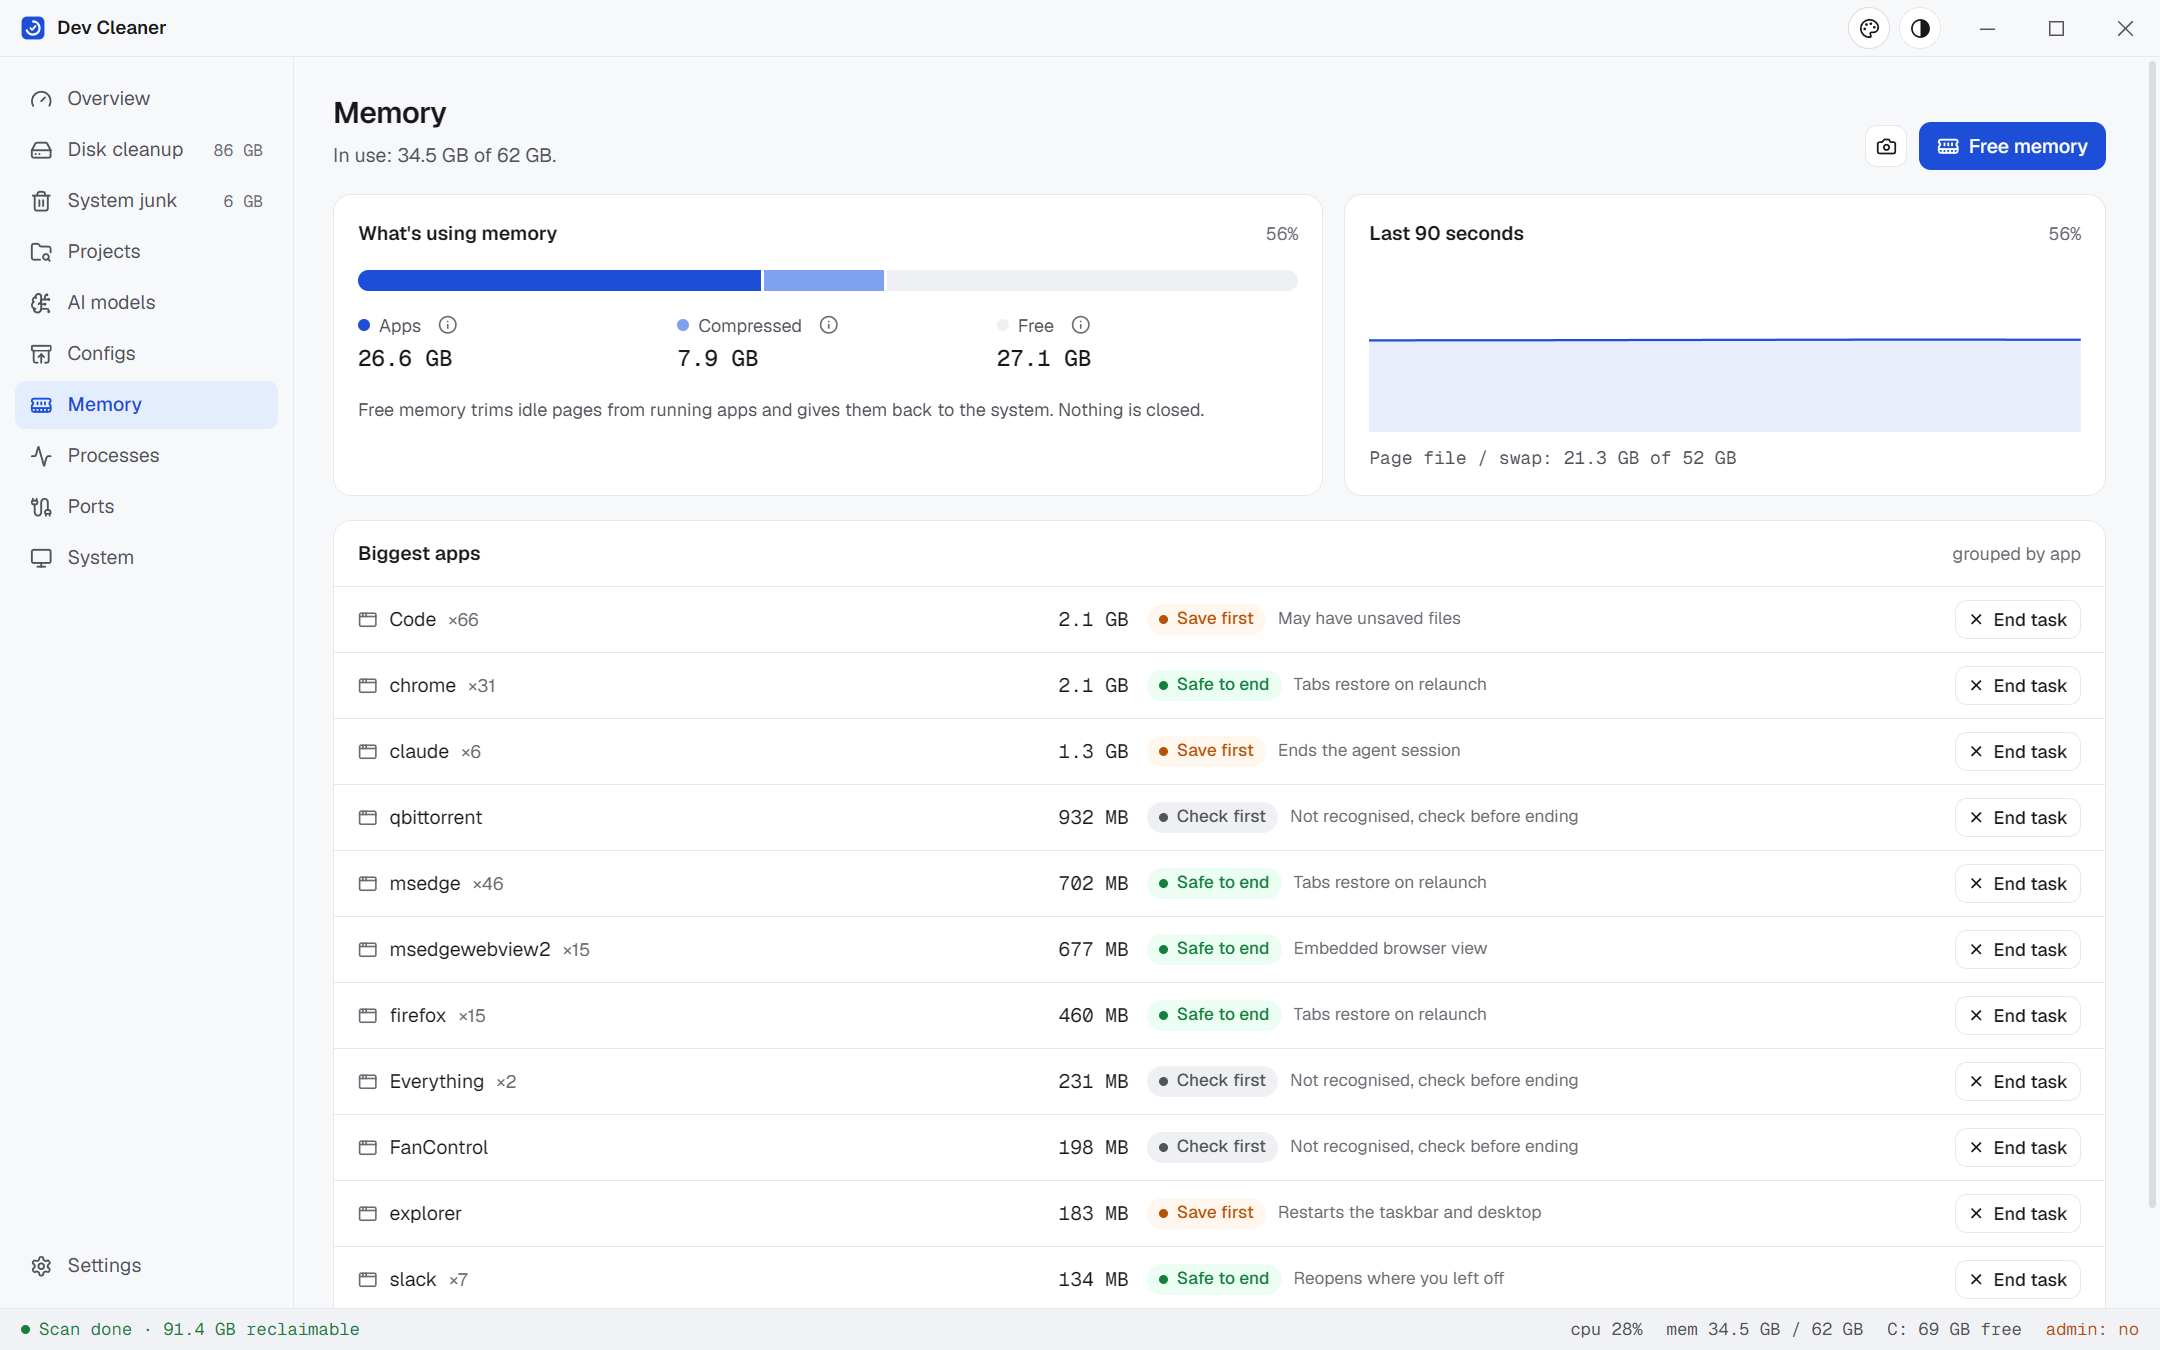
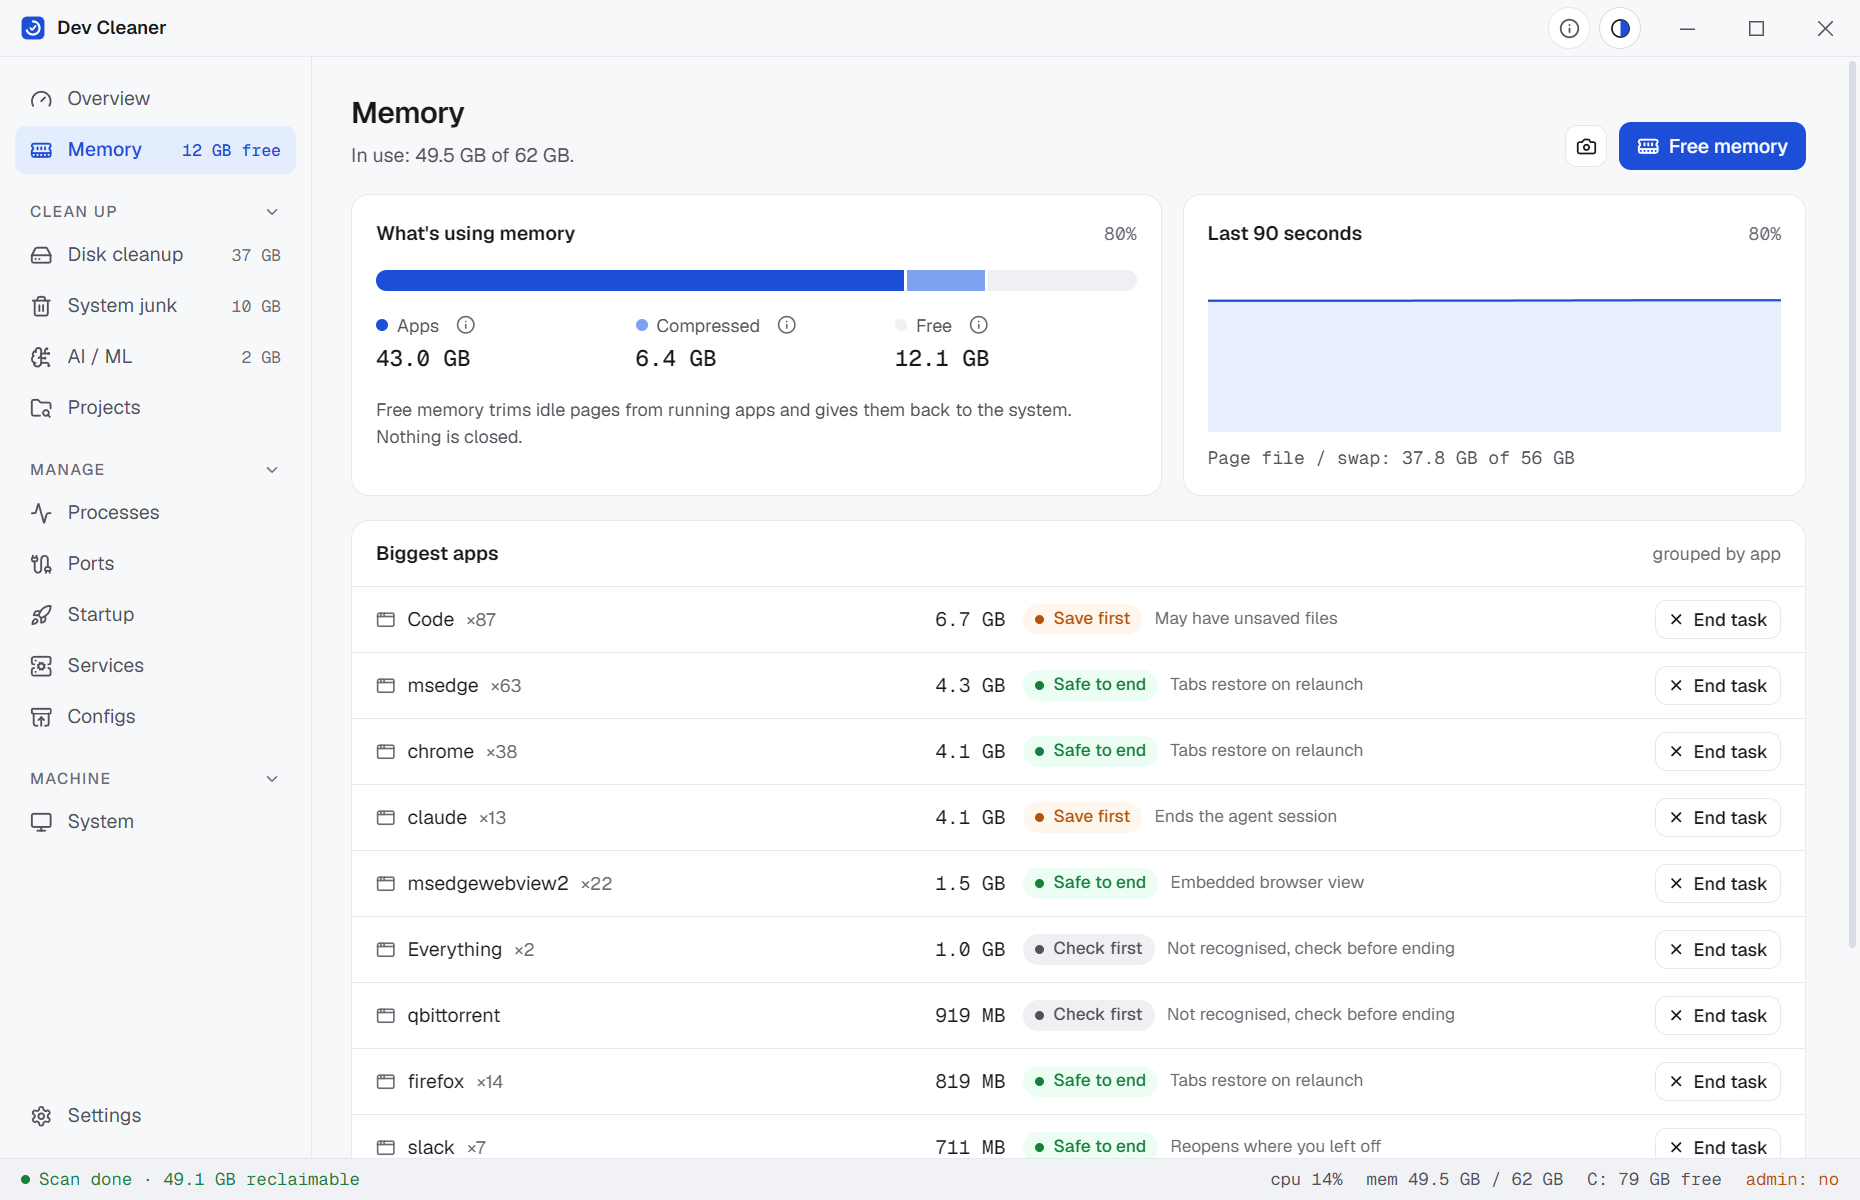
Grouped sidebar, free RAM in the nav, clickable Overview gauges
- Sidebar: Overview and Memory on top, then collapsible Clean up,
  Manage and Machine sections. Folding is remembered and a folded
  section opens when a page inside it is shown. Width 196 -> 208px.
- Memory's badge shows free RAM ("12 GB free"); the ports count badge
  is gone (the status bar still lists ports).
- ORDER moves to Shell.tsx so Ctrl/Cmd + 1..9 follows the sidebar.
- Overview CPU, Memory and Disk cards open Processes, Memory and Disk
  cleanup (mouse and keyboard).
- e2e: folding, Memory position and badge, no clipped labels, gauge
  links. README screenshots retaken.

diff --git a/src/components/Shell.tsx b/src/components/Shell.tsx
@@ -1,40 +1,91 @@
 import { motion } from "motion/react"
-import { Activity, ArchiveRestore, BrainCircuit, Trash2, Cable, FolderSearch, Gauge as GaugeIcon, HardDrive, MemoryStick, Monitor, Rocket, ServerCog, Settings } from "lucide-react"
+import { Activity, ArchiveRestore, BrainCircuit, ChevronDown, Trash2, Cable, FolderSearch, Gauge as GaugeIcon, HardDrive, MemoryStick, Monitor, Rocket, ServerCog, Settings } from "lucide-react"
 import { bytes, cn } from "@/lib/format"
 import { sectionOf } from "@/lib/sections"
 import { useStore } from "@/lib/store"
 import { PrivilegeStatus } from "./Privileges"
-import type { ReactNode } from "react"
+import { useEffect, useState, type ReactNode } from "react"
 
 export type Page = "overview" | "disk" | "junk" | "projects" | "models" | "configs" | "memory" | "processes" | "startup" | "services" | "ports" | "system" | "settings"
 
-const NAV: { id: Page; label: string; icon: ReactNode }[] = [
-  { id: "overview", label: "Overview", icon: <GaugeIcon size={15} /> },
-  { id: "disk", label: "Disk cleanup", icon: <HardDrive size={15} /> },
-  { id: "junk", label: "System junk", icon: <Trash2 size={15} /> },
-  { id: "projects", label: "Projects", icon: <FolderSearch size={15} /> },
-  { id: "models", label: "AI / ML", icon: <BrainCircuit size={15} /> },
-  { id: "configs", label: "Configs", icon: <ArchiveRestore size={15} /> },
-  { id: "memory", label: "Memory", icon: <MemoryStick size={15} /> },
-  { id: "processes", label: "Processes", icon: <Activity size={15} /> },
-  { id: "startup", label: "Startup", icon: <Rocket size={15} /> },
-  { id: "services", label: "Services", icon: <ServerCog size={15} /> },
-  { id: "ports", label: "Ports", icon: <Cable size={15} /> },
-  { id: "system", label: "System", icon: <Monitor size={15} /> },
+type NavItem = { id: Page; label: string; icon: ReactNode }
+const item = (id: Page, label: string, icon: ReactNode): NavItem => ({ id, label, icon })
+
+const TOP: NavItem[] = [item("overview", "Overview", <GaugeIcon size={15} />), item("memory", "Memory", <MemoryStick size={15} />)]
+const GROUPS: { id: string; label: string; items: NavItem[] }[] = [
+  {
+    id: "clean",
+    label: "Clean up",
+    items: [
+      item("disk", "Disk cleanup", <HardDrive size={15} />),
+      item("junk", "System junk", <Trash2 size={15} />),
+      item("models", "AI / ML", <BrainCircuit size={15} />),
+      item("projects", "Projects", <FolderSearch size={15} />),
+    ],
+  },
+  {
+    id: "manage",
+    label: "Manage",
+    items: [
+      item("processes", "Processes", <Activity size={15} />),
+      item("ports", "Ports", <Cable size={15} />),
+      item("startup", "Startup", <Rocket size={15} />),
+      item("services", "Services", <ServerCog size={15} />),
+      item("configs", "Configs", <ArchiveRestore size={15} />),
+    ],
+  },
+  { id: "machine", label: "Machine", items: [item("system", "System", <Monitor size={15} />)] },
 ]
 
+/** Sidebar order, top to bottom. Ctrl/Cmd + 1..9 follows it. */
+export const ORDER: Page[] = [...TOP, ...GROUPS.flatMap((g) => g.items)].map((n) => n.id).concat("settings")
+
+const FOLD_KEY = "dc-nav-folded"
+function useFolded() {
+  const [folded, setFolded] = useState<Set<string>>(() => {
+    try {
+      const v = JSON.parse(localStorage.getItem(FOLD_KEY) ?? "[]")
+      return new Set(Array.isArray(v) ? v : [])
+    } catch {
+      return new Set()
+    }
+  })
+  const set = (id: string, fold: boolean) =>
+    setFolded((prev) => {
+      if (prev.has(id) === fold) return prev
+      const next = new Set(prev)
+      if (fold) next.add(id)
+      else next.delete(id)
+      try {
+        localStorage.setItem(FOLD_KEY, JSON.stringify([...next]))
+      } catch {
+        /* folding just won't be remembered */
+      }
+      return next
+    })
+  return [folded, set] as const
+}
+
 export function Sidebar({ page, go }: { page: Page; go: (p: Page) => void }) {
-  const { caches, scanning, portsInUse } = useStore()
+  const { caches, scanning, stats } = useStore()
+  const [folded, setFold] = useFolded()
+  // Opening a page inside a folded section (shortcut, link, insight) unfolds it.
+  useEffect(() => {
+    const g = GROUPS.find((g) => g.items.some((n) => n.id === page))
+    if (g && folded.has(g.id)) setFold(g.id, false)
+    // eslint-disable-next-line react-hooks/exhaustive-deps
+  }, [page])
+
   const reclaim = caches.filter((c) => sectionOf(c) === "disk").reduce((n, c) => n + c.size, 0)
   const aiBytes = caches.filter((c) => (sectionOf(c) === "harnesses" || sectionOf(c) === "mltools") && c.risk !== "data").reduce((n, c) => n + c.size, 0)
   const junkBytes = caches.filter((c) => c.junk && c.risk !== "data").reduce((n, c) => n + c.size, 0)
   const badge: Partial<Record<Page, ReactNode>> = {
+    memory: stats ? <span title={`${bytes(stats.memAvailable)} of ${bytes(stats.memTotal, 0)} RAM free`}>{bytes(stats.memAvailable, 0)} free</span> : null,
     disk: scanning && !reclaim ? <span className="pulse-dot">…</span> : reclaim ? bytes(reclaim, 0) : null,
-    ports: portsInUse.length ? `${portsInUse.length} open` : null,
     junk: junkBytes ? bytes(junkBytes, 0) : null,
     models: aiBytes ? bytes(aiBytes, 0) : null,
   }
-  const item = (n: (typeof NAV)[number]) => {
+  const row = (n: NavItem) => {
     const on = n.id === page
     return (
       <button
@@ -44,7 +95,7 @@ export function Sidebar({ page, go }: { page: Page; go: (p: Page) => void }) {
         aria-current={on ? "page" : undefined}
         onClick={() => go(n.id)}
         className={cn(
-          "relative flex h-8 w-full items-center gap-2.5 rounded-[7px] px-2.5 text-left text-[13px] transition-colors duration-150",
+          "relative flex h-8 w-full shrink-0 items-center gap-2.5 rounded-[7px] px-2.5 text-left text-[13px] transition-colors duration-150",
           on ? "font-medium text-accent" : "text-muted hover:bg-hover hover:text-text",
         )}
       >
@@ -56,16 +107,33 @@ export function Sidebar({ page, go }: { page: Page; go: (p: Page) => void }) {
           />
         )}
         <span className="relative">{n.icon}</span>
-        <span className="relative flex-1">{n.label}</span>
-        {badge[n.id] && <span className={cn("mono relative text-[11px]", on ? "text-accent" : "text-subtle")}>{badge[n.id]}</span>}
+        <span className="relative min-w-0 flex-1 truncate">{n.label}</span>
+        {badge[n.id] && <span className={cn("mono relative shrink-0 text-[11px]", on ? "text-accent" : "text-subtle")}>{badge[n.id]}</span>}
       </button>
     )
   }
   return (
-    <nav aria-label="Sections" className="flex w-[196px] shrink-0 flex-col gap-0.5 border-r border-border px-2.5 py-3">
-      {NAV.map(item)}
+    <nav aria-label="Sections" className="flex w-[208px] shrink-0 flex-col gap-0.5 overflow-y-auto border-r border-border px-2.5 py-3">
+      {TOP.map(row)}
+      {GROUPS.map((g) => {
+        const open = !folded.has(g.id)
+        return (
+          <div key={g.id} className="mt-3 flex flex-col gap-0.5" data-testid={`nav-group-${g.id}`}>
+            <button
+              type="button"
+              aria-expanded={open}
+              onClick={() => setFold(g.id, open)}
+              className="flex h-[22px] w-full items-center gap-1.5 rounded-[5px] px-2.5 text-left text-[10.5px] font-medium tracking-[0.09em] text-subtle uppercase transition-colors duration-150 hover:text-muted"
+            >
+              {g.label}
+              <ChevronDown size={12} className={cn("ml-auto transition-transform duration-200", !open && "-rotate-90")} />
+            </button>
+            {open && g.items.map(row)}
+          </div>
+        )
+      })}
       <div className="flex-1" />
-      {item({ id: "settings", label: "Settings", icon: <Settings size={15} /> })}
+      {row({ id: "settings", label: "Settings", icon: <Settings size={15} /> })}
     </nav>
   )
 }

diff --git a/src/pages/Overview.tsx b/src/pages/Overview.tsx
@@ -60,8 +60,9 @@ export function Overview({ go }: { go: (p: Page) => void }) {
       />
 
       <div className="grid grid-cols-3 gap-3.5">
-        <GaugeCard label="CPU" value={(stats?.cpu ?? 0) / 100} detail={stats ? `${stats.cores.length} threads` : null} note={stats ? ((stats.cpu ?? 0) > 80 ? "Busy" : "Normal load") : null} warn={(stats?.cpu ?? 0) > 80} />
+        <GaugeCard onClick={() => go("processes")} label="CPU" value={(stats?.cpu ?? 0) / 100} detail={stats ? `${stats.cores.length} threads` : null} note={stats ? ((stats.cpu ?? 0) > 80 ? "Busy" : "Normal load") : null} warn={(stats?.cpu ?? 0) > 80} />
         <GaugeCard
+          onClick={() => go("memory")}
           label="Memory"
           value={memUsed}
           detail={stats ? `${bytes(stats.memUsed)} of ${bytes(stats.memTotal, 0)}` : null}
@@ -69,6 +70,7 @@ export function Overview({ go }: { go: (p: Page) => void }) {
           warn={memUsed > 0.85}
         />
         <GaugeCard
+          onClick={() => go("disk")}
           label={disk ? `Disk ${disk.mount}` : "Disk"}
           value={diskUsed}
           detail={disk ? `${bytes(disk.total - disk.free, 0)} of ${bytes(disk.total, 0)}` : null}
@@ -134,9 +136,22 @@ export function Overview({ go }: { go: (p: Page) => void }) {
   )
 }
 
-function GaugeCard({ label, value, detail, note, warn }: { label: string; value: number; detail: string | null; note: string | null; warn?: boolean }) {
+function GaugeCard({ label, value, detail, note, warn, onClick }: { label: string; value: number; detail: string | null; note: string | null; warn?: boolean; onClick: () => void }) {
   return (
-    <Card className="flex items-center gap-4 px-4 py-3.5" data-testid={`gauge-${label.split(" ")[0].toLowerCase()}`}>
+    <Card
+      role="link"
+      tabIndex={0}
+      aria-label={`Open ${label}`}
+      onClick={onClick}
+      onKeyDown={(e) => {
+        if (e.key === "Enter" || e.key === " ") {
+          e.preventDefault()
+          onClick()
+        }
+      }}
+      className="flex cursor-pointer items-center gap-4 px-4 py-3.5 transition-colors duration-150 hover:border-accent/40 hover:bg-hover focus-visible:outline-2 focus-visible:outline-accent"
+      data-testid={`gauge-${label.split(" ")[0].toLowerCase()}`}
+    >
       <Gauge value={value} warn={warn}>
         <span className="mono text-[17px] font-medium">{detail == null ? "—" : `${Math.round(value * 100)}%`}</span>
       </Gauge>

diff --git a/src/App.tsx b/src/App.tsx
@@ -1,7 +1,7 @@
 import { useEffect, useState } from "react"
 import { AnimatePresence, MotionConfig, motion } from "motion/react"
 import { TitleBar } from "./components/TitleBar"
-import { Sidebar, StatusBar, type Page } from "./components/Shell"
+import { ORDER, Sidebar, StatusBar, type Page } from "./components/Shell"
 import { Toaster } from "./components/ui"
 import { ShareReportDialog } from "./components/Share"
 import { useSettings } from "./lib/settings"
@@ -20,8 +20,6 @@ import { Startup } from "./pages/Startup"
 import { Services } from "./pages/Services"
 import { SystemPage } from "./pages/System"
 import { SettingsPage } from "./pages/Settings"
-
-const ORDER: Page[] = ["overview", "disk", "junk", "projects", "models", "configs", "memory", "processes", "startup", "services", "ports", "system", "settings"]
 
 export function App() {
   const { settings } = useSettings()

diff --git a/CHANGELOG.md b/CHANGELOG.md
@@ -8,8 +8,14 @@ section matching the tag.
 ## [Unreleased]
 
 ### Added
+- The Overview's CPU, Memory and Disk cards open Processes, Memory and Disk cleanup.
+- Memory shows how much RAM is free right in the sidebar.
 - Microsoft Store package: every release also builds an MSIX for the Store. About shows "Microsoft Store" for Store installs and sends updates there.
 - A privacy policy (`PRIVACY.md`).
+
+### Changed
+- The sidebar is grouped into Clean up, Manage and Machine sections that fold away and stay folded. Memory moves up under Overview, Configs joins Manage, and the sidebar is a little wider. Ctrl/Cmd + 1..9 follows the new order.
+- The sidebar no longer counts open ports; the status bar still lists them.
 
 ### Fixed
 - Update checks keep working when GitHub's API rate-limits them: the latest version is read from the release page and the notes from the changelog instead.
